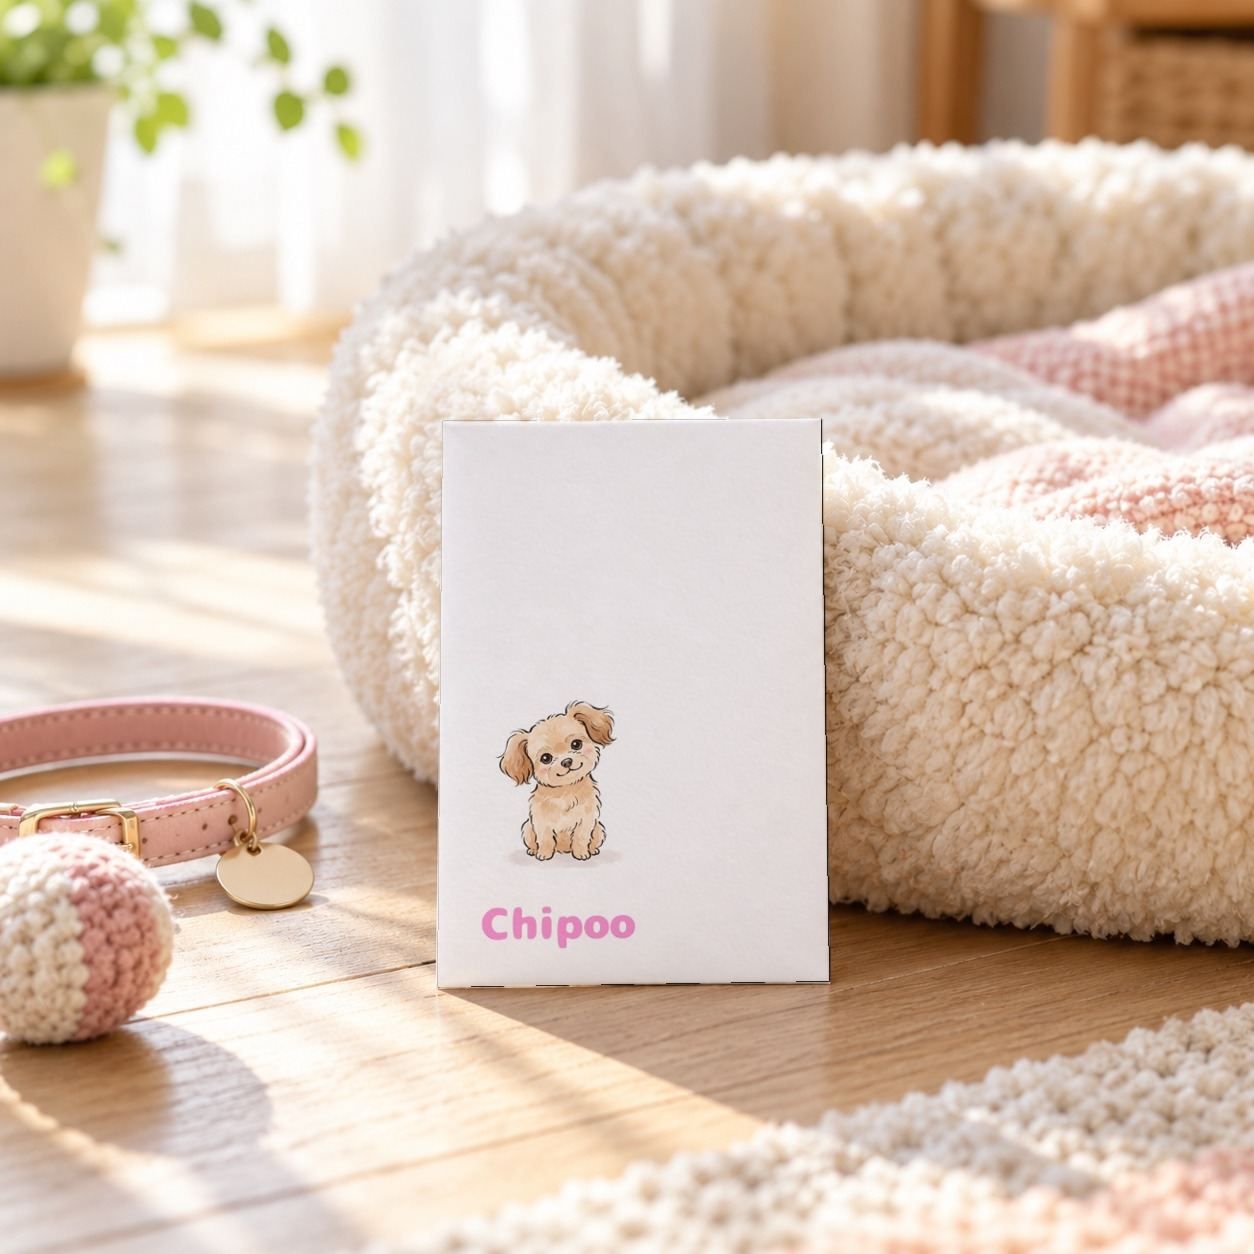
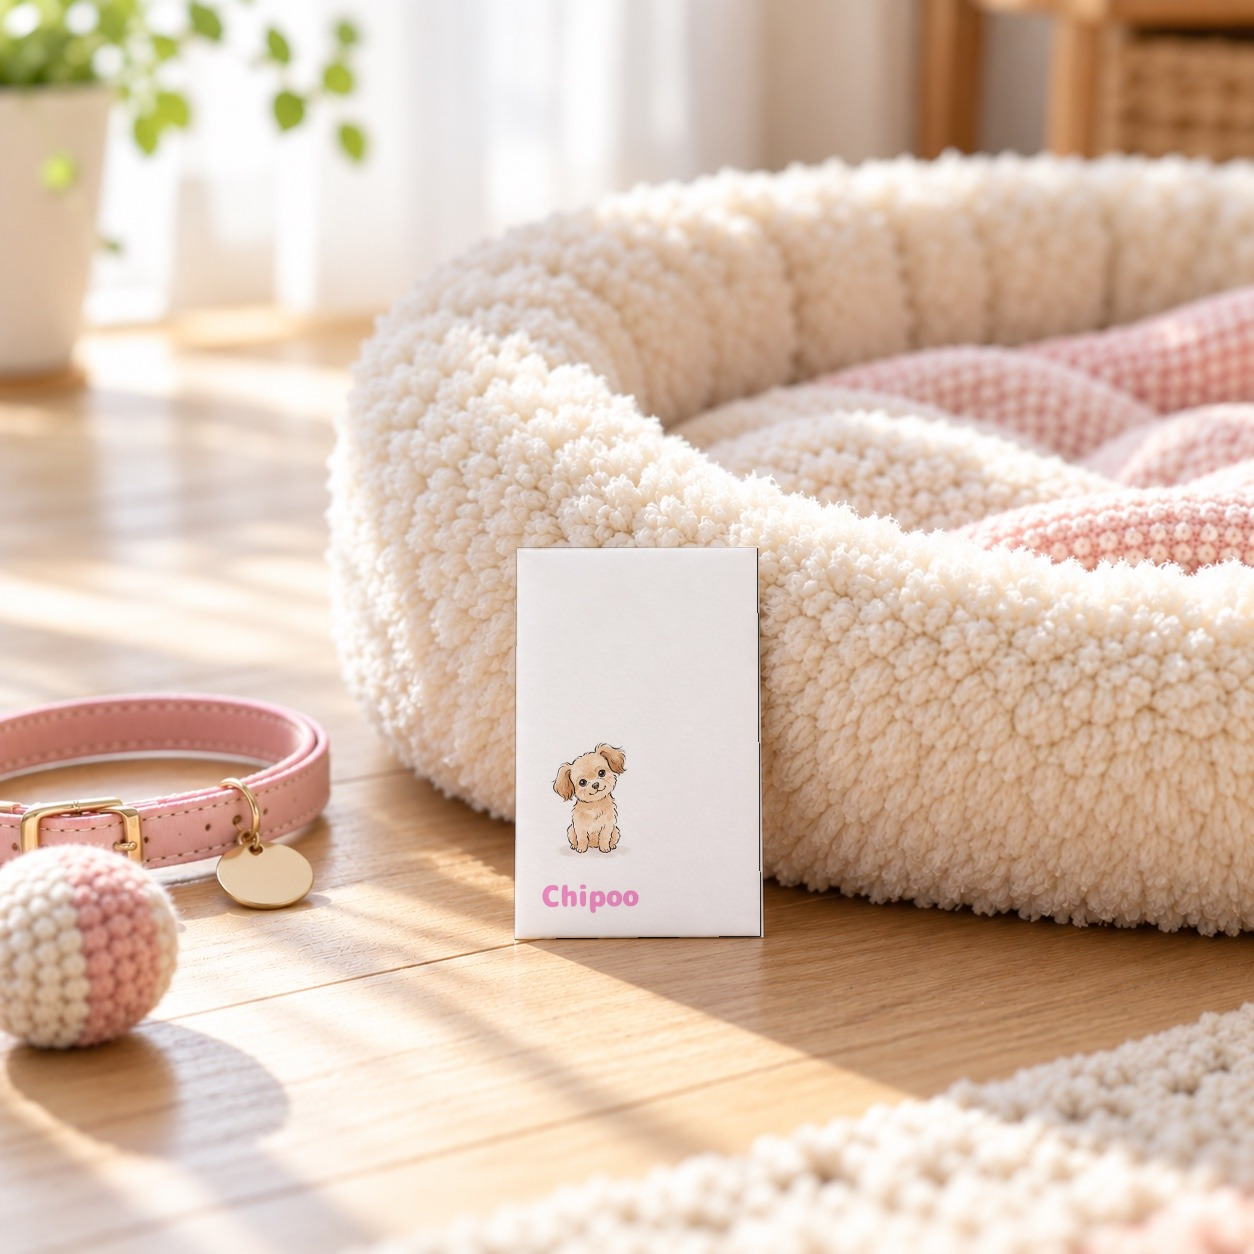
チワプーの場面写真を、Geminiで袋を小さくした版で作り直した
Claude-Session: https://claude.ai/code/session_01QWjhnwkGtLBYh5aBhsN5Vu

diff --git a/shop/make_scene_blank.py b/shop/make_scene_blank.py
@@ -17,8 +17,8 @@ SCENES = {
         (HERE / "check/back_greatdane_final.png", [(203, 265), (470, 265), (472, 683), (201, 683)]),
         (HERE / "check/front_greatdane_final.png", [(502, 265), (765, 265), (770, 683), (500, 683)]),
     ]),
-    "chipoo_1": ("164.jpg", [
-        ("160.jpg", [(443, 421), (821, 419), (829, 981), (438, 987)]),
+    "chipoo_1": ("165.jpg", [  # Geminiで袋を小さくした版(164.jpgは袋が大きすぎた)
+        ("160.jpg", [(517, 548), (757, 548), (760, 936), (515, 939)]),
     ]),
     "chatora_1": ("159.jpg", [
         ("155.jpg", [(648, 516), (886, 517), (885, 884), (639, 885)]),  # 無地のページの袋の表
